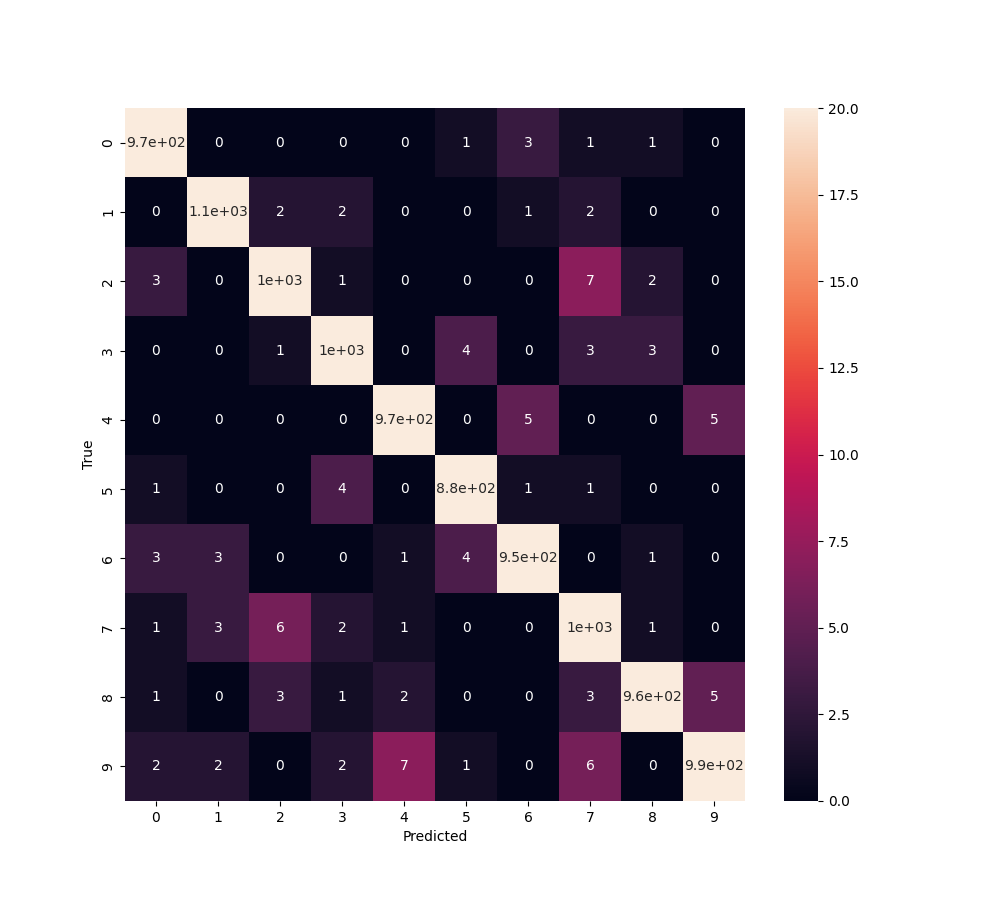
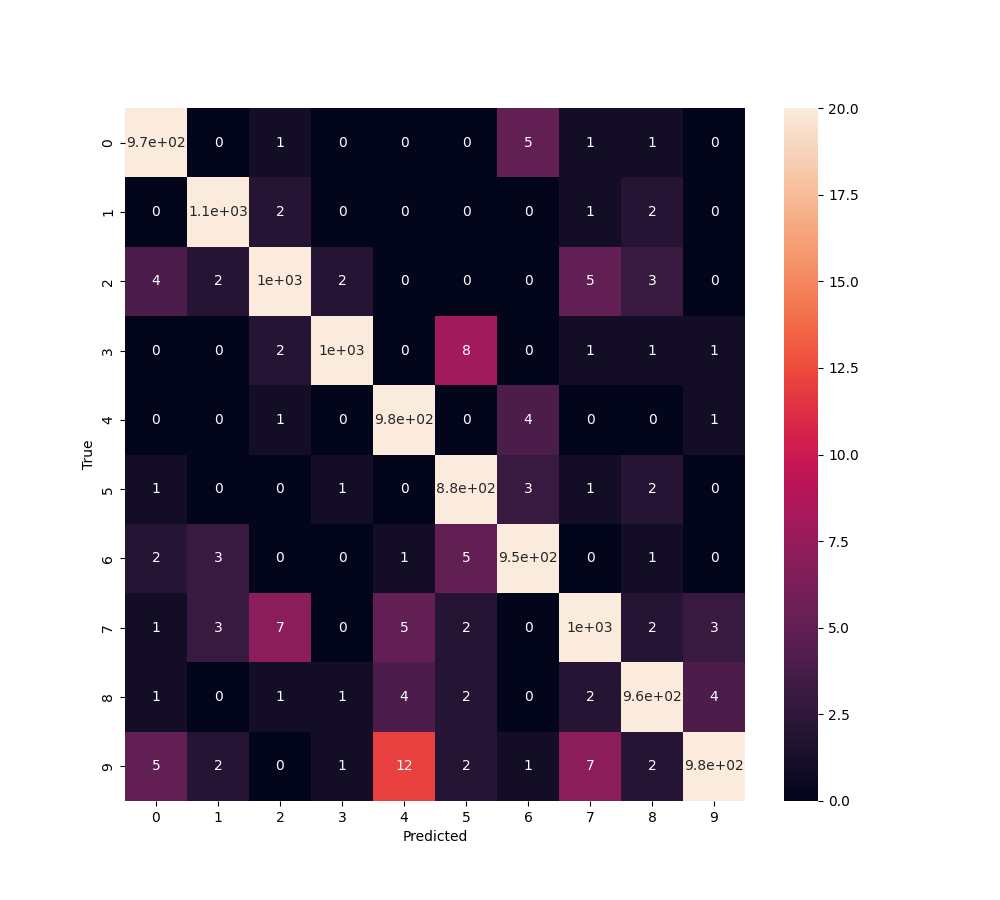
upadte imgs and src

diff --git a/src/main.py b/src/main.py
@@ -8,7 +8,7 @@ from utils import get_test_loader, visualize_stn
 
 parser = argparse.ArgumentParser()
 parser.add_argument('--epochs', type=int)
-parser.add_argument('--layer', type=string)
+parser.add_argument('--layer', type=str)
 args = parser.parse_args()
 
 opener = urllib.request.build_opener()
@@ -18,7 +18,7 @@ device = torch.device("cuda" if torch.cuda.is_available() else "cpu")
 
 train_loader = get_train_loader()
 test_loader = get_test_loader()
-model = Net(ars.layer).to(device)
+model = Net(args.layer).to(device)
 optimizer = optim.SGD(model.parameters(), lr=0.01)
 
 for epoch in range(1, args.epochs + 1):

diff --git a/src/net.py b/src/net.py
@@ -67,7 +67,7 @@ class Net(nn.Module):
         if self.layer == 'conv':
             x = F.relu(F.max_pool2d(self.conv1(x), 2))
             x = F.relu(F.max_pool2d(self.conv2_drop(self.conv2(x)), 2))
-        if layer == 'coordconv':
+        if self.layer == 'coordconv':
             x = F.relu(F.max_pool2d(self.coordconv1(x), 2))
             x = F.relu(F.max_pool2d(self.conv2_drop(self.coordconv2(x)), 2))
         x = x.view(-1, 320)
